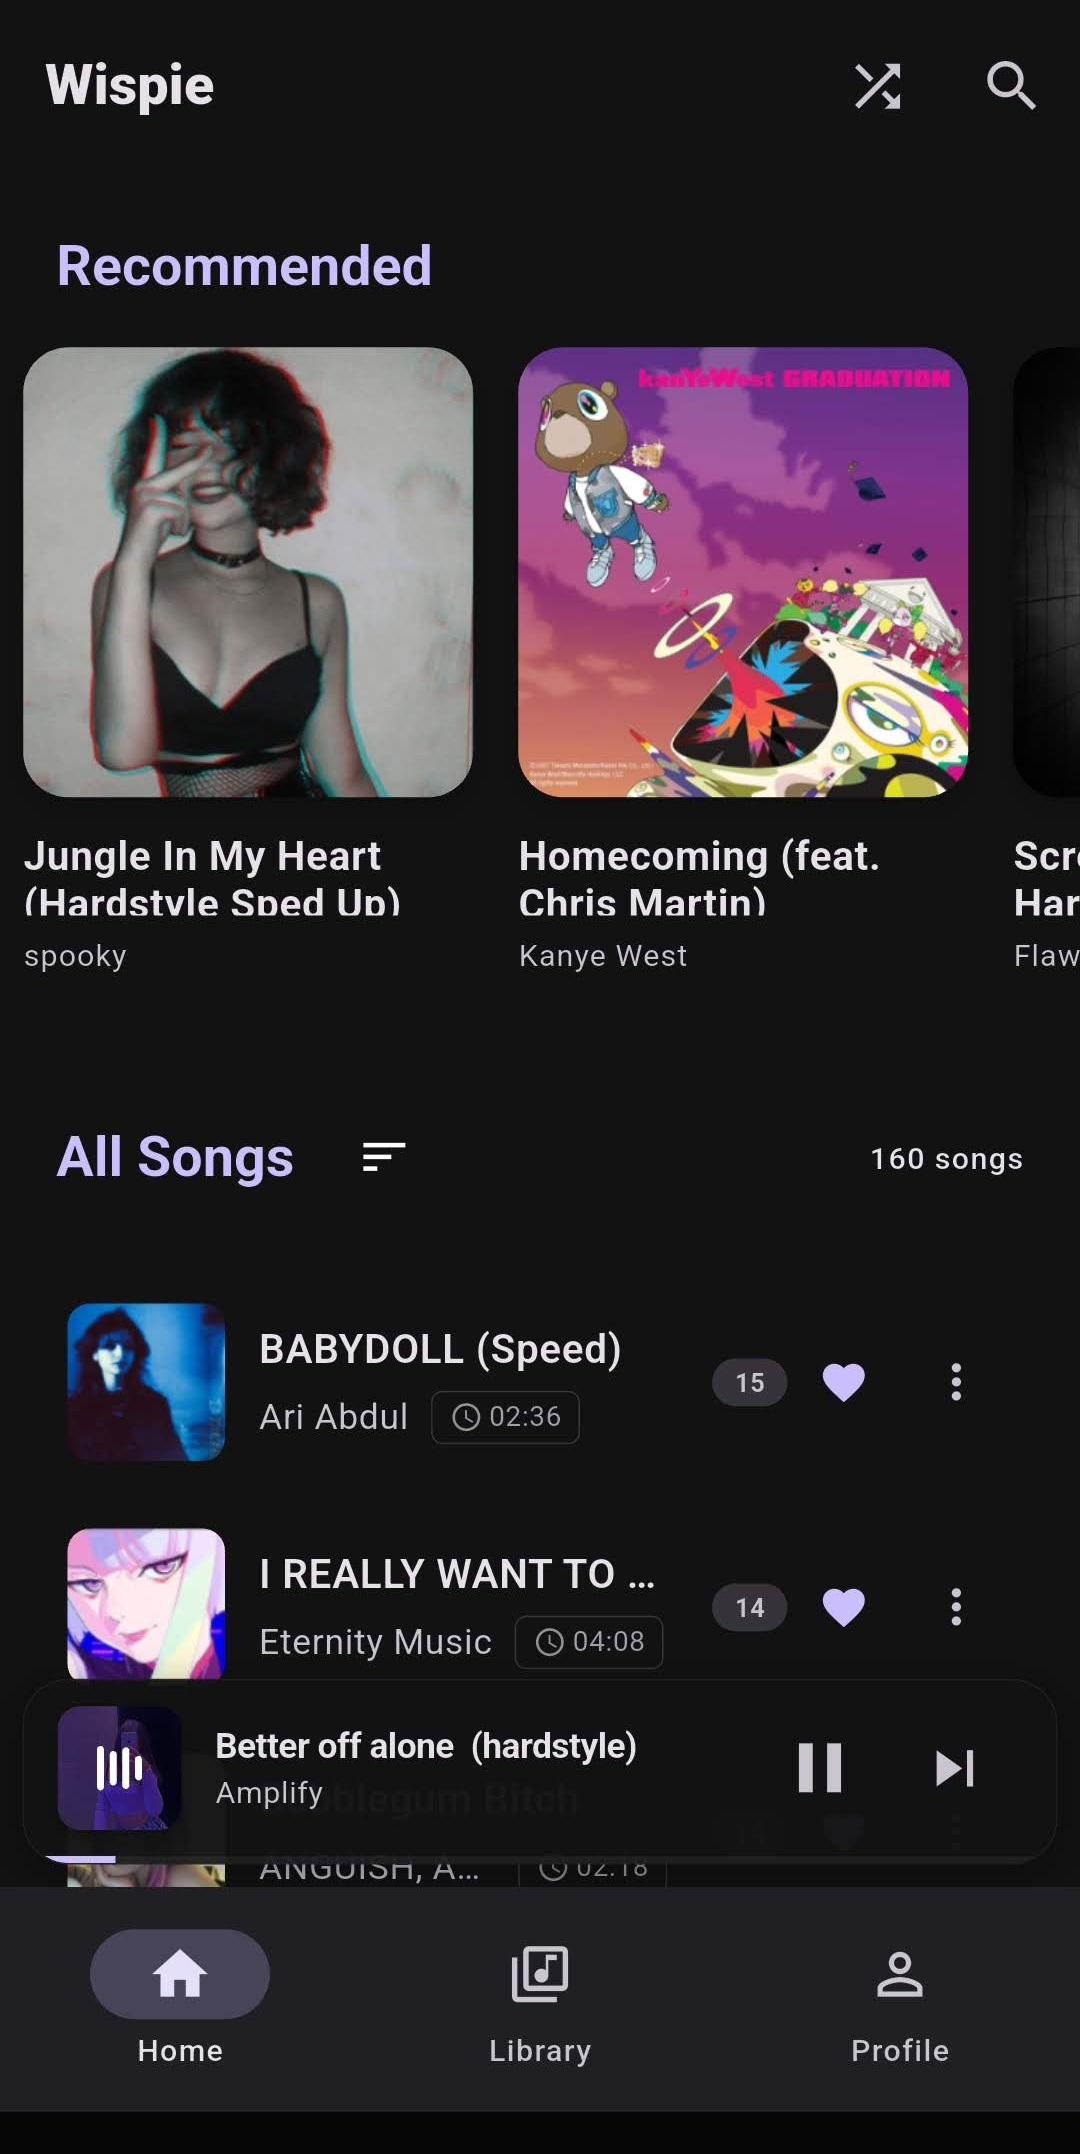
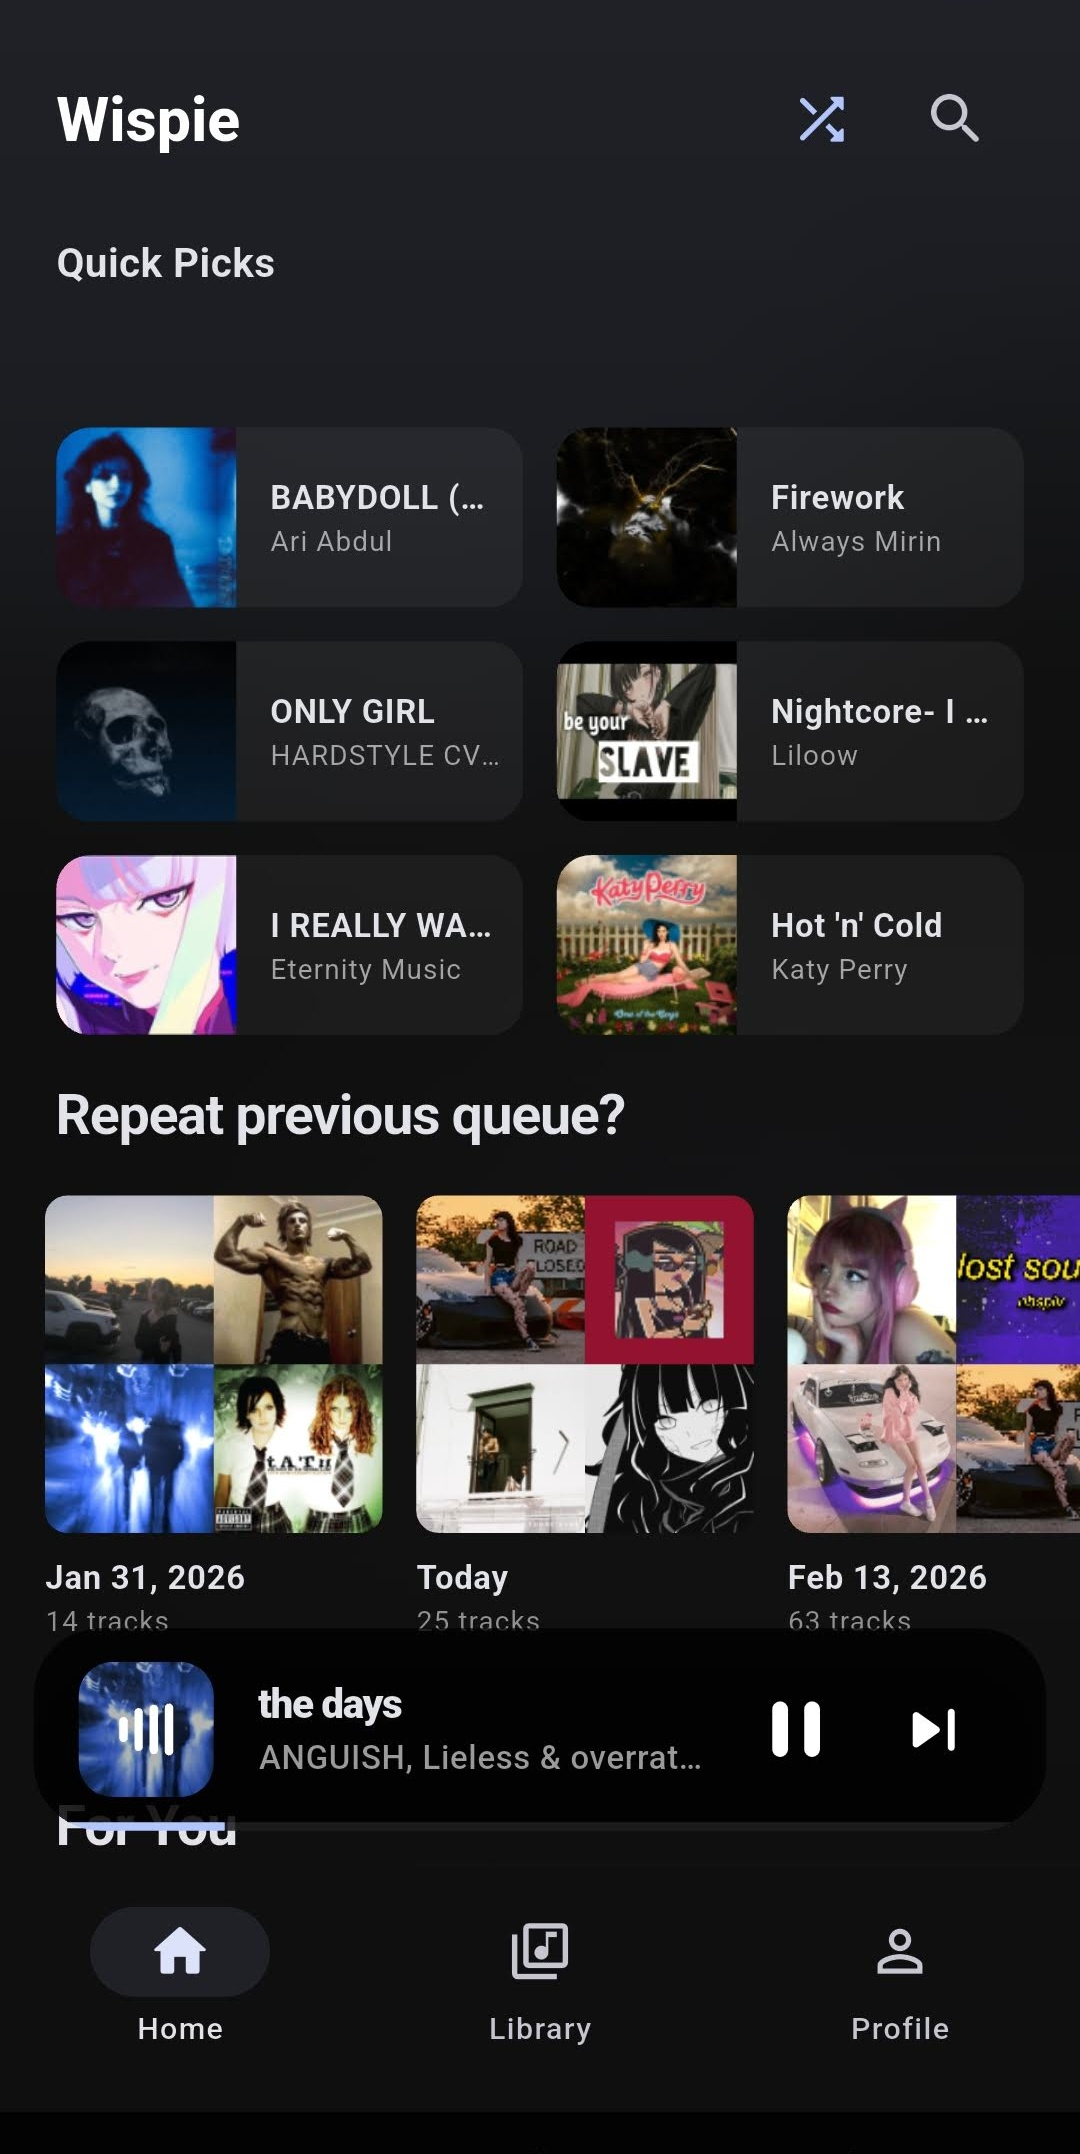
Slight update to homescreen
Update assets

diff --git a/lib/presentation/screens/home_screen.dart b/lib/presentation/screens/home_screen.dart
@@ -54,13 +54,6 @@ class _HomeScreenState extends ConsumerState<HomeScreen> {
     ref.invalidate(songsProvider);
   }
 
-  String _getGreeting() {
-    final hour = DateTime.now().hour;
-    if (hour < 12) return 'Good Morning';
-    if (hour < 17) return 'Good Afternoon';
-    return 'Good Evening';
-  }
-
   Widget _buildQuickPickTile(
       Song song, ThemeData theme, AudioPlayerManager audioManager) {
     return GestureDetector(
@@ -463,115 +456,62 @@ class _HomeScreenState extends ConsumerState<HomeScreen> {
             child: CustomScrollView(
               physics: const BouncingScrollPhysics(),
               slivers: [
-                SliverAppBar(
-                  expandedHeight: 120,
-                  collapsedHeight: 80,
-                  floating: true,
-                  pinned: false,
-                  backgroundColor: Colors.transparent,
-                  flexibleSpace: FlexibleSpaceBar(
-                    titlePadding: const EdgeInsets.fromLTRB(20, 0, 20, 16),
-                    title: Text(
-                      'Wispie',
-                      style: theme.textTheme.headlineMedium?.copyWith(
-                        color: Colors.white,
-                      ),
-                    ),
-                    centerTitle: false,
-                  ),
-                  actions: [
-                    IconButton(
-                      icon: const Icon(Icons.shuffle_rounded),
-                      onPressed: () {
-                        if (songs.isNotEmpty) {
-                          audioManager.shuffleAndPlay(songs,
-                              isRestricted: false);
-                        }
-                      },
-                      tooltip: 'Shuffle All',
-                    ),
-                    IconButton(
-                      icon: const Icon(Icons.search_rounded),
-                      onPressed: () {
-                        Navigator.push(
-                          context,
-                          MaterialPageRoute(
-                              builder: (_) => const SearchScreen()),
-                        );
-                      },
-                    ),
-                    const SizedBox(width: 8),
-                  ],
-                ),
                 SliverToBoxAdapter(
                   child: Padding(
-                    padding: const EdgeInsets.fromLTRB(20, 0, 20, 24),
-                    child: Column(
-                      crossAxisAlignment: CrossAxisAlignment.start,
+                    padding: EdgeInsets.fromLTRB(
+                        20, MediaQuery.of(context).padding.top + 16, 20, 16),
+                    child: Row(
+                      mainAxisAlignment: MainAxisAlignment.spaceBetween,
                       children: [
+                        Text(
+                          'Wispie',
+                          style: theme.textTheme.headlineSmall?.copyWith(
+                            color: Colors.white,
+                            fontWeight: FontWeight.w800,
+                          ),
+                        ),
                         Row(
-                          mainAxisAlignment: MainAxisAlignment.spaceBetween,
                           children: [
-                            Column(
-                              crossAxisAlignment: CrossAxisAlignment.start,
-                              children: [
-                                Text(
-                                  _getGreeting(),
-                                  style:
-                                      theme.textTheme.headlineMedium?.copyWith(
-                                    fontWeight: FontWeight.w900,
-                                    color: Colors.white,
-                                  ),
-                                ),
-                              ],
+                            IconButton(
+                              icon: Icon(Icons.shuffle_rounded,
+                                  color: theme.colorScheme.primary),
+                              onPressed: () {
+                                if (songs.isNotEmpty) {
+                                  audioManager.shuffleAndPlay(songs,
+                                      isRestricted: false);
+                                }
+                              },
                             ),
-                            Container(
-                              decoration: BoxDecoration(
-                                color: theme.colorScheme.primary
-                                    .withValues(alpha: 0.1),
-                                borderRadius: BorderRadius.circular(20),
-                              ),
-                              child: IconButton(
-                                icon: Icon(Icons.shuffle_rounded,
-                                    color: theme.colorScheme.primary),
-                                iconSize: 28,
-                                onPressed: () {
-                                  if (songs.isNotEmpty) {
-                                    audioManager.shuffleAndPlay(songs,
-                                        isRestricted: false);
-                                  }
-                                },
-                              ),
+                            IconButton(
+                              icon: const Icon(Icons.search_rounded),
+                              onPressed: () {
+                                Navigator.push(
+                                  context,
+                                  MaterialPageRoute(
+                                      builder: (_) => const SearchScreen()),
+                                );
+                              },
                             ),
                           ],
                         ),
-                        const SizedBox(height: 24),
+                      ],
+                    ),
+                  ),
+                ),
+                SliverToBoxAdapter(
+                  child: Padding(
+                    padding: const EdgeInsets.fromLTRB(20, 0, 20, 16),
+                    child: Column(
+                      crossAxisAlignment: CrossAxisAlignment.start,
+                      children: [
                         if (topRecommendations.isNotEmpty) ...[
-                          Row(
-                            mainAxisAlignment: MainAxisAlignment.spaceBetween,
-                            children: [
-                              Text(
-                                'Quick Picks',
-                                style: theme.textTheme.titleLarge,
-                              ),
-                              TextButton(
-                                onPressed: () {
-                                  Navigator.push(
-                                    context,
-                                    MaterialPageRoute(
-                                      builder: (_) => SongListScreen(
-                                        title: 'Quick Picks',
-                                        songs: topRecommendations,
-                                        playlistId: 'quick_picks',
-                                      ),
-                                    ),
-                                  );
-                                },
-                                child: const Text('See all'),
-                              ),
-                            ],
+                          Text(
+                            'Quick Picks',
+                            style: theme.textTheme.titleMedium?.copyWith(
+                              fontWeight: FontWeight.w700,
+                            ),
                           ),
-                          const SizedBox(height: 8),
+                          const SizedBox(height: 12),
                           GridView.builder(
                             shrinkWrap: true,
                             physics: const NeverScrollableScrollPhysics(),

diff --git a/lib/presentation/screens/player_screen.dart b/lib/presentation/screens/player_screen.dart
@@ -1,5 +1,6 @@
 import 'dart:io';
 import 'dart:async';
+import 'dart:ui';
 import 'package:flutter/foundation.dart';
 import 'package:flutter/gestures.dart';
 import 'package:flutter/material.dart';
@@ -472,19 +473,22 @@ class _PlayerScreenState extends ConsumerState<PlayerScreen>
                                   url: metadata.artUri?.toString() ?? '',
                                   filename: metadata.id,
                                   fit: BoxFit.cover,
-                                  memCacheWidth: 100,
                                 ),
                               ),
                               Positioned.fill(
-                                child: Container(
-                                  decoration: BoxDecoration(
-                                    gradient: LinearGradient(
-                                      begin: Alignment.topCenter,
-                                      end: Alignment.bottomCenter,
-                                      colors: [
-                                        Colors.black.withValues(alpha: 0.5),
-                                        Colors.black.withValues(alpha: 0.8),
-                                      ],
+                                child: BackdropFilter(
+                                  filter:
+                                      ImageFilter.blur(sigmaX: 40, sigmaY: 40),
+                                  child: Container(
+                                    decoration: BoxDecoration(
+                                      gradient: LinearGradient(
+                                        begin: Alignment.topCenter,
+                                        end: Alignment.bottomCenter,
+                                        colors: [
+                                          Colors.black.withValues(alpha: 0.5),
+                                          Colors.black.withValues(alpha: 0.8),
+                                        ],
+                                      ),
                                     ),
                                   ),
                                 ),

diff --git a/lib/presentation/widgets/fun_stats_view.dart b/lib/presentation/widgets/fun_stats_view.dart
@@ -1,22 +1,16 @@
-import 'package:flutter/foundation.dart';
 import 'package:flutter/material.dart';
 import 'package:flutter_riverpod/flutter_riverpod.dart';
 import '../../providers/providers.dart';
-import '../../services/stats_service.dart';
 
 class FunStatsView extends ConsumerWidget {
   const FunStatsView({super.key});
-
-  static Future<Map<String, dynamic>> _fetchStats(StatsService service) async {
-    return await service.getFunStats();
-  }
 
   @override
   Widget build(BuildContext context, WidgetRef ref) {
     final statsService = ref.watch(statsServiceProvider);
 
     return FutureBuilder<Map<String, dynamic>>(
-      future: compute(_fetchStats, statsService),
+      future: statsService.getFunStats(),
       builder: (context, snapshot) {
         if (snapshot.connectionState == ConnectionState.waiting) {
           return const Center(child: CircularProgressIndicator());
